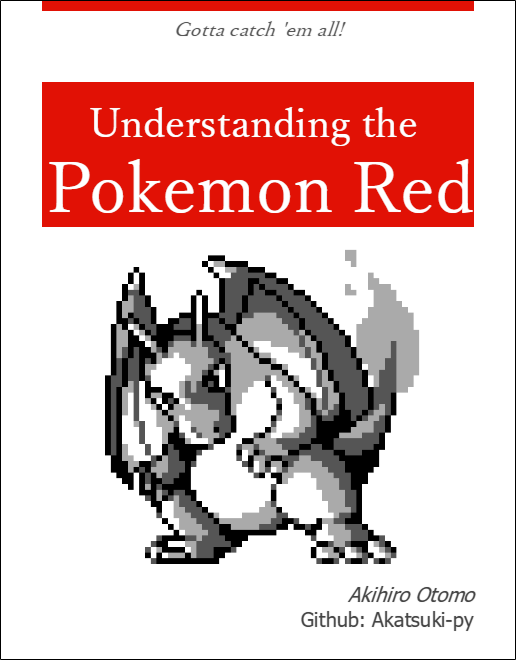
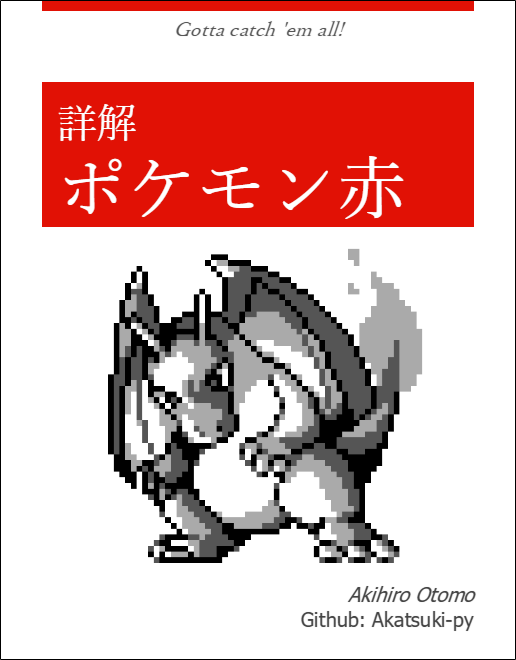
fix docs

diff --git a/README.md b/README.md
@@ -2,6 +2,8 @@
 
 ![cover](./docs/image/cover.png)
 
+**このレポジトリは未完成です！**
+
 これは[ポケモン赤を逆アセンブルしたレポジトリ](https://github.com/pret/pokered)に対して、日本語で詳細な解説を加えたレポジトリです。
 
 日本語で解説を加えてはいますが、対象のROMは英語版のポケモン赤であることに注意してください。
@@ -52,7 +54,7 @@
 
  ファイル名  |  内容
 ---- | ----
- audio/  |  null
+ audio/  |  TODO
  constants/  |  [constants](./constants/README.md)参照
  data/  |  [data](./data/README.md)参照
  engine/  |  [engine](./engine/README.md)参照
@@ -61,18 +63,18 @@
  macros/  |  [macros](./macros/README.md)参照
  maps/  |  [maps](./maps/README.md)参照
  pic/  |  [pic](./pic/README.md)参照
- scripts/  |  null
+ scripts/  |  TODO
  text/  |  [text](./text/README.md)参照
  tools/  |  [tools](./tools/README.md)参照
- audio.asm  |  null
+ audio.asm  |  TODO
  charmap.asm  |  文字コードのマクロ定義
  constants.asm  |  定数シンボルのマクロ定義
- home.asm  |  null
+ home.asm  |  TODO
  hram.asm  |  HRAM領域にどのようなデータが配置されるかの定義を行っている
  macros.asm  |  macros/以下の各マクロファイルをまとめている
- main.asm  |  null
+ main.asm  |  TODO
  pokered.link  |  リンカスクリプト <br/>各セクションがどのバンクのどのアドレスに配置されるかを指示している
- sram.asm  |  null
+ sram.asm  |  TODO
  text.asm  |  各テキストデータファイルをまとめている <br/>pokered.linkでROMバンク$20以降に配置されている 
- vram.asm  |  null
+ vram.asm  |  TODO
  wram.asm  |  WRAM領域にどのようなデータが配置されるかの定義を行っている
